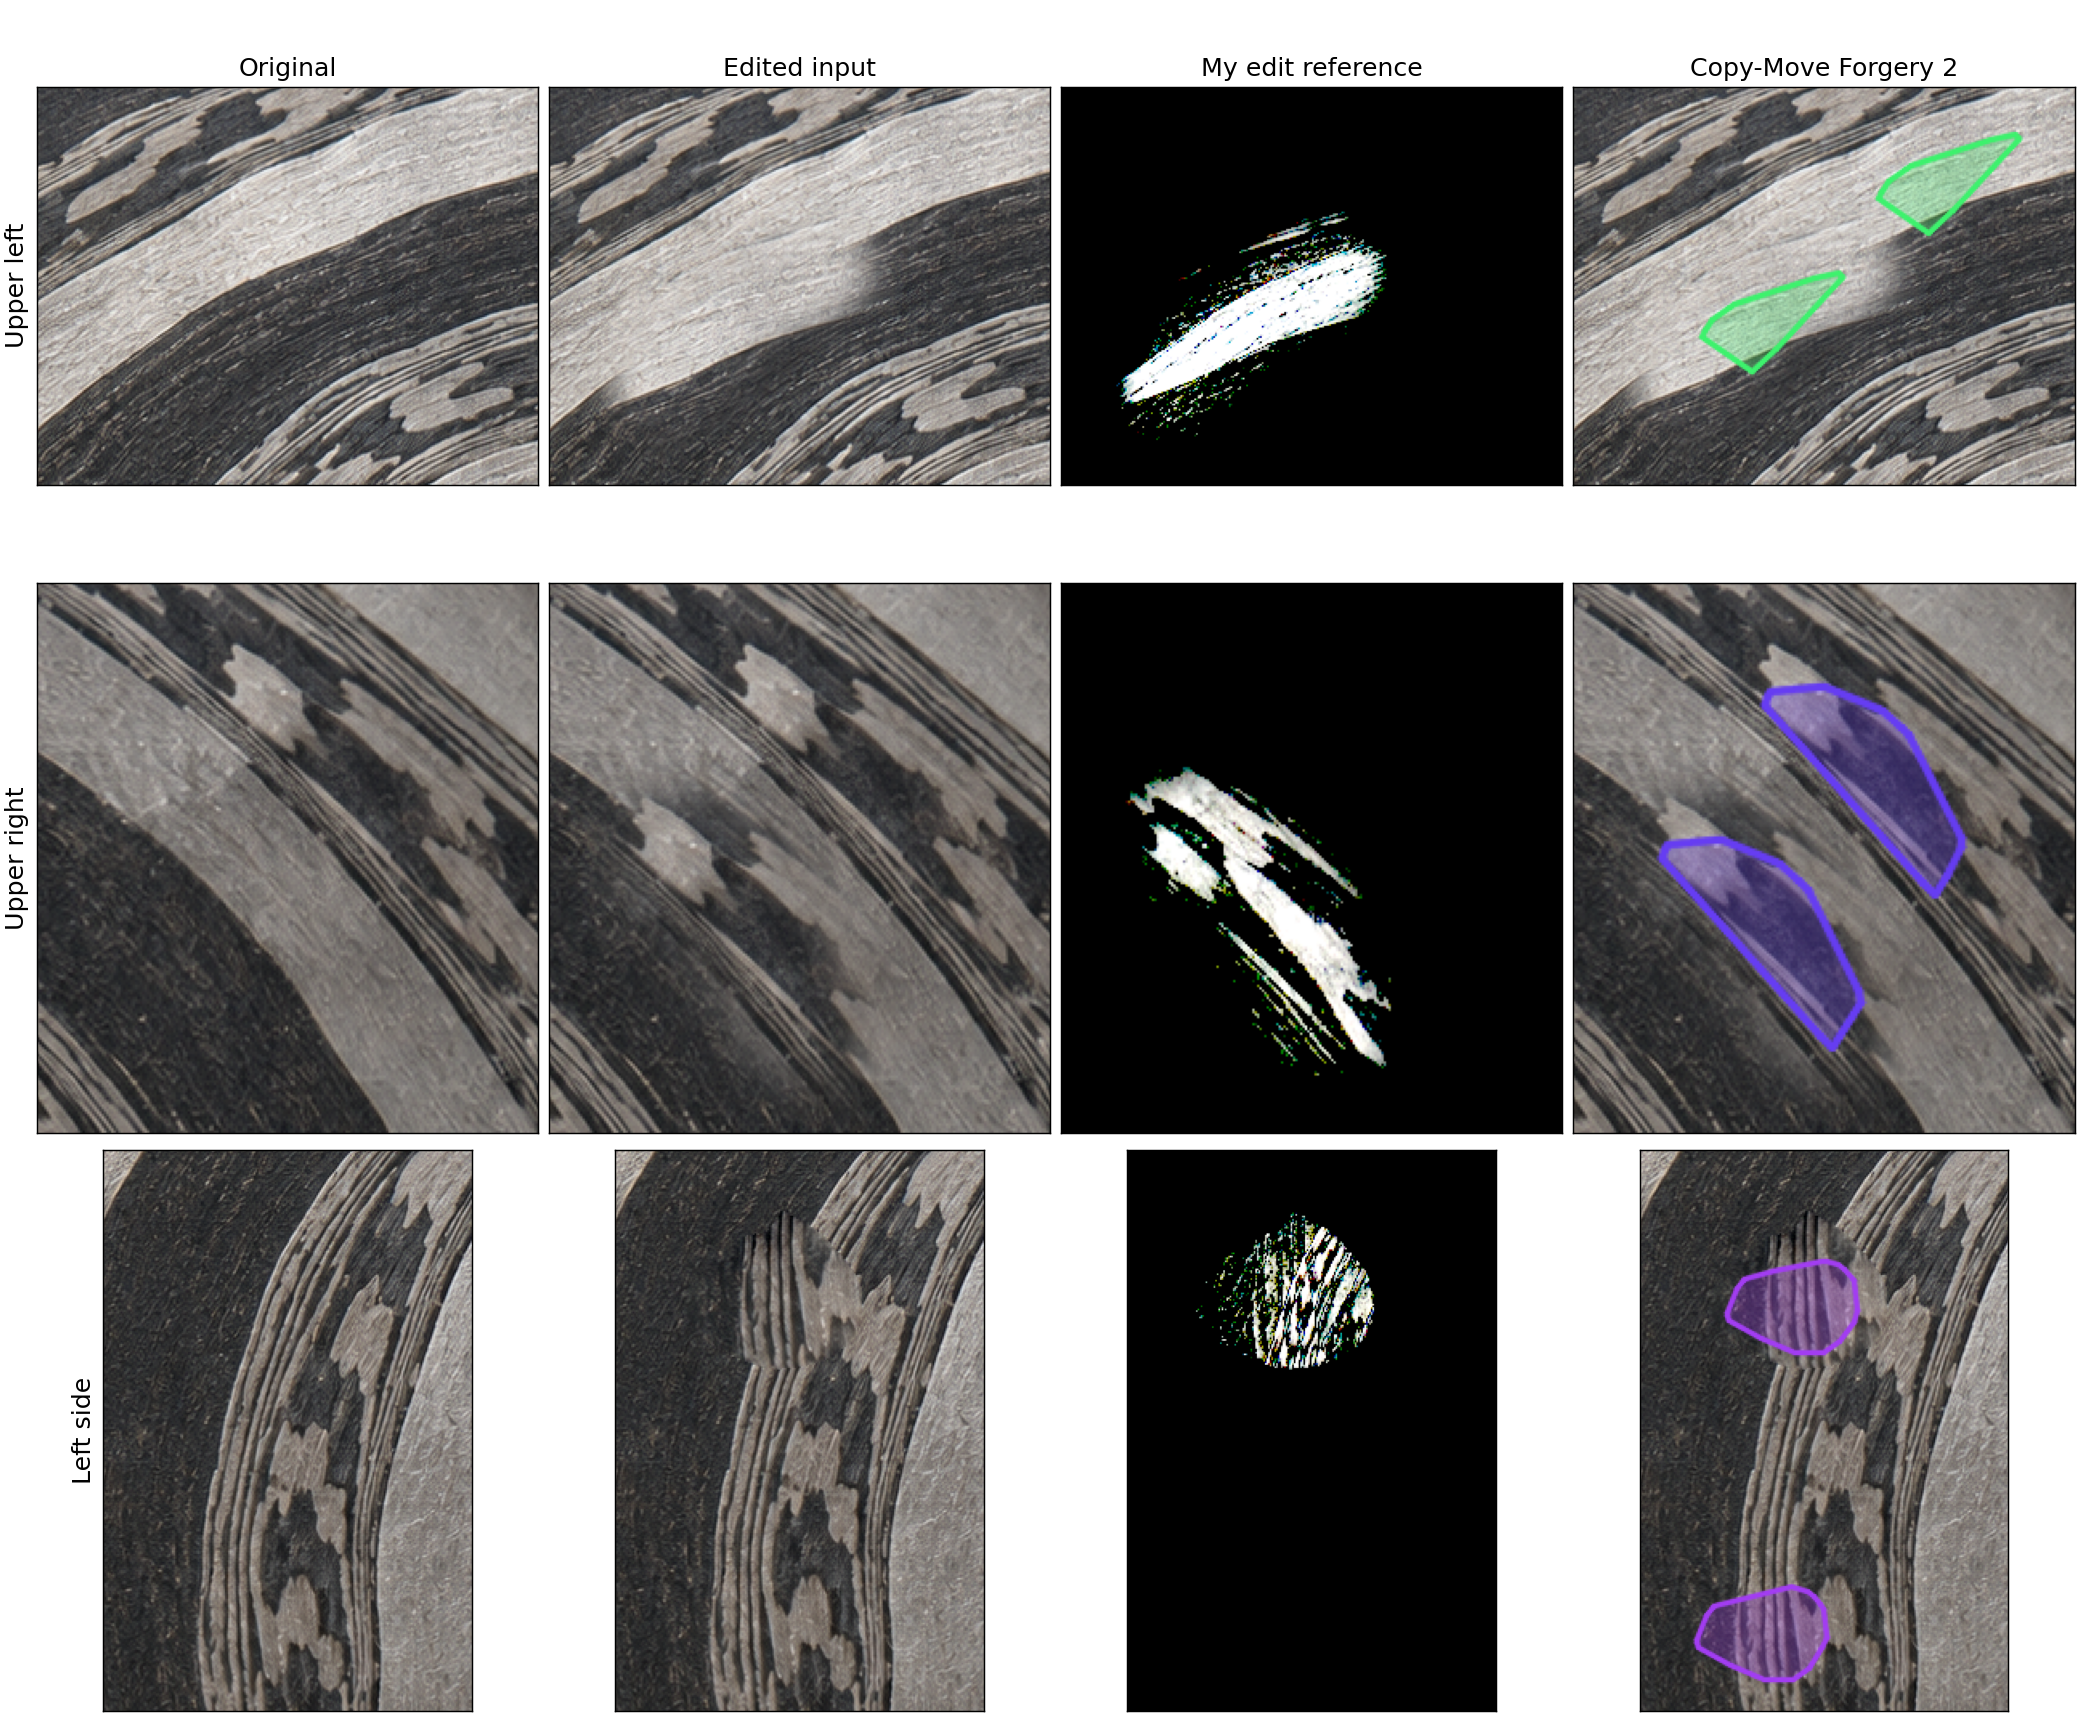
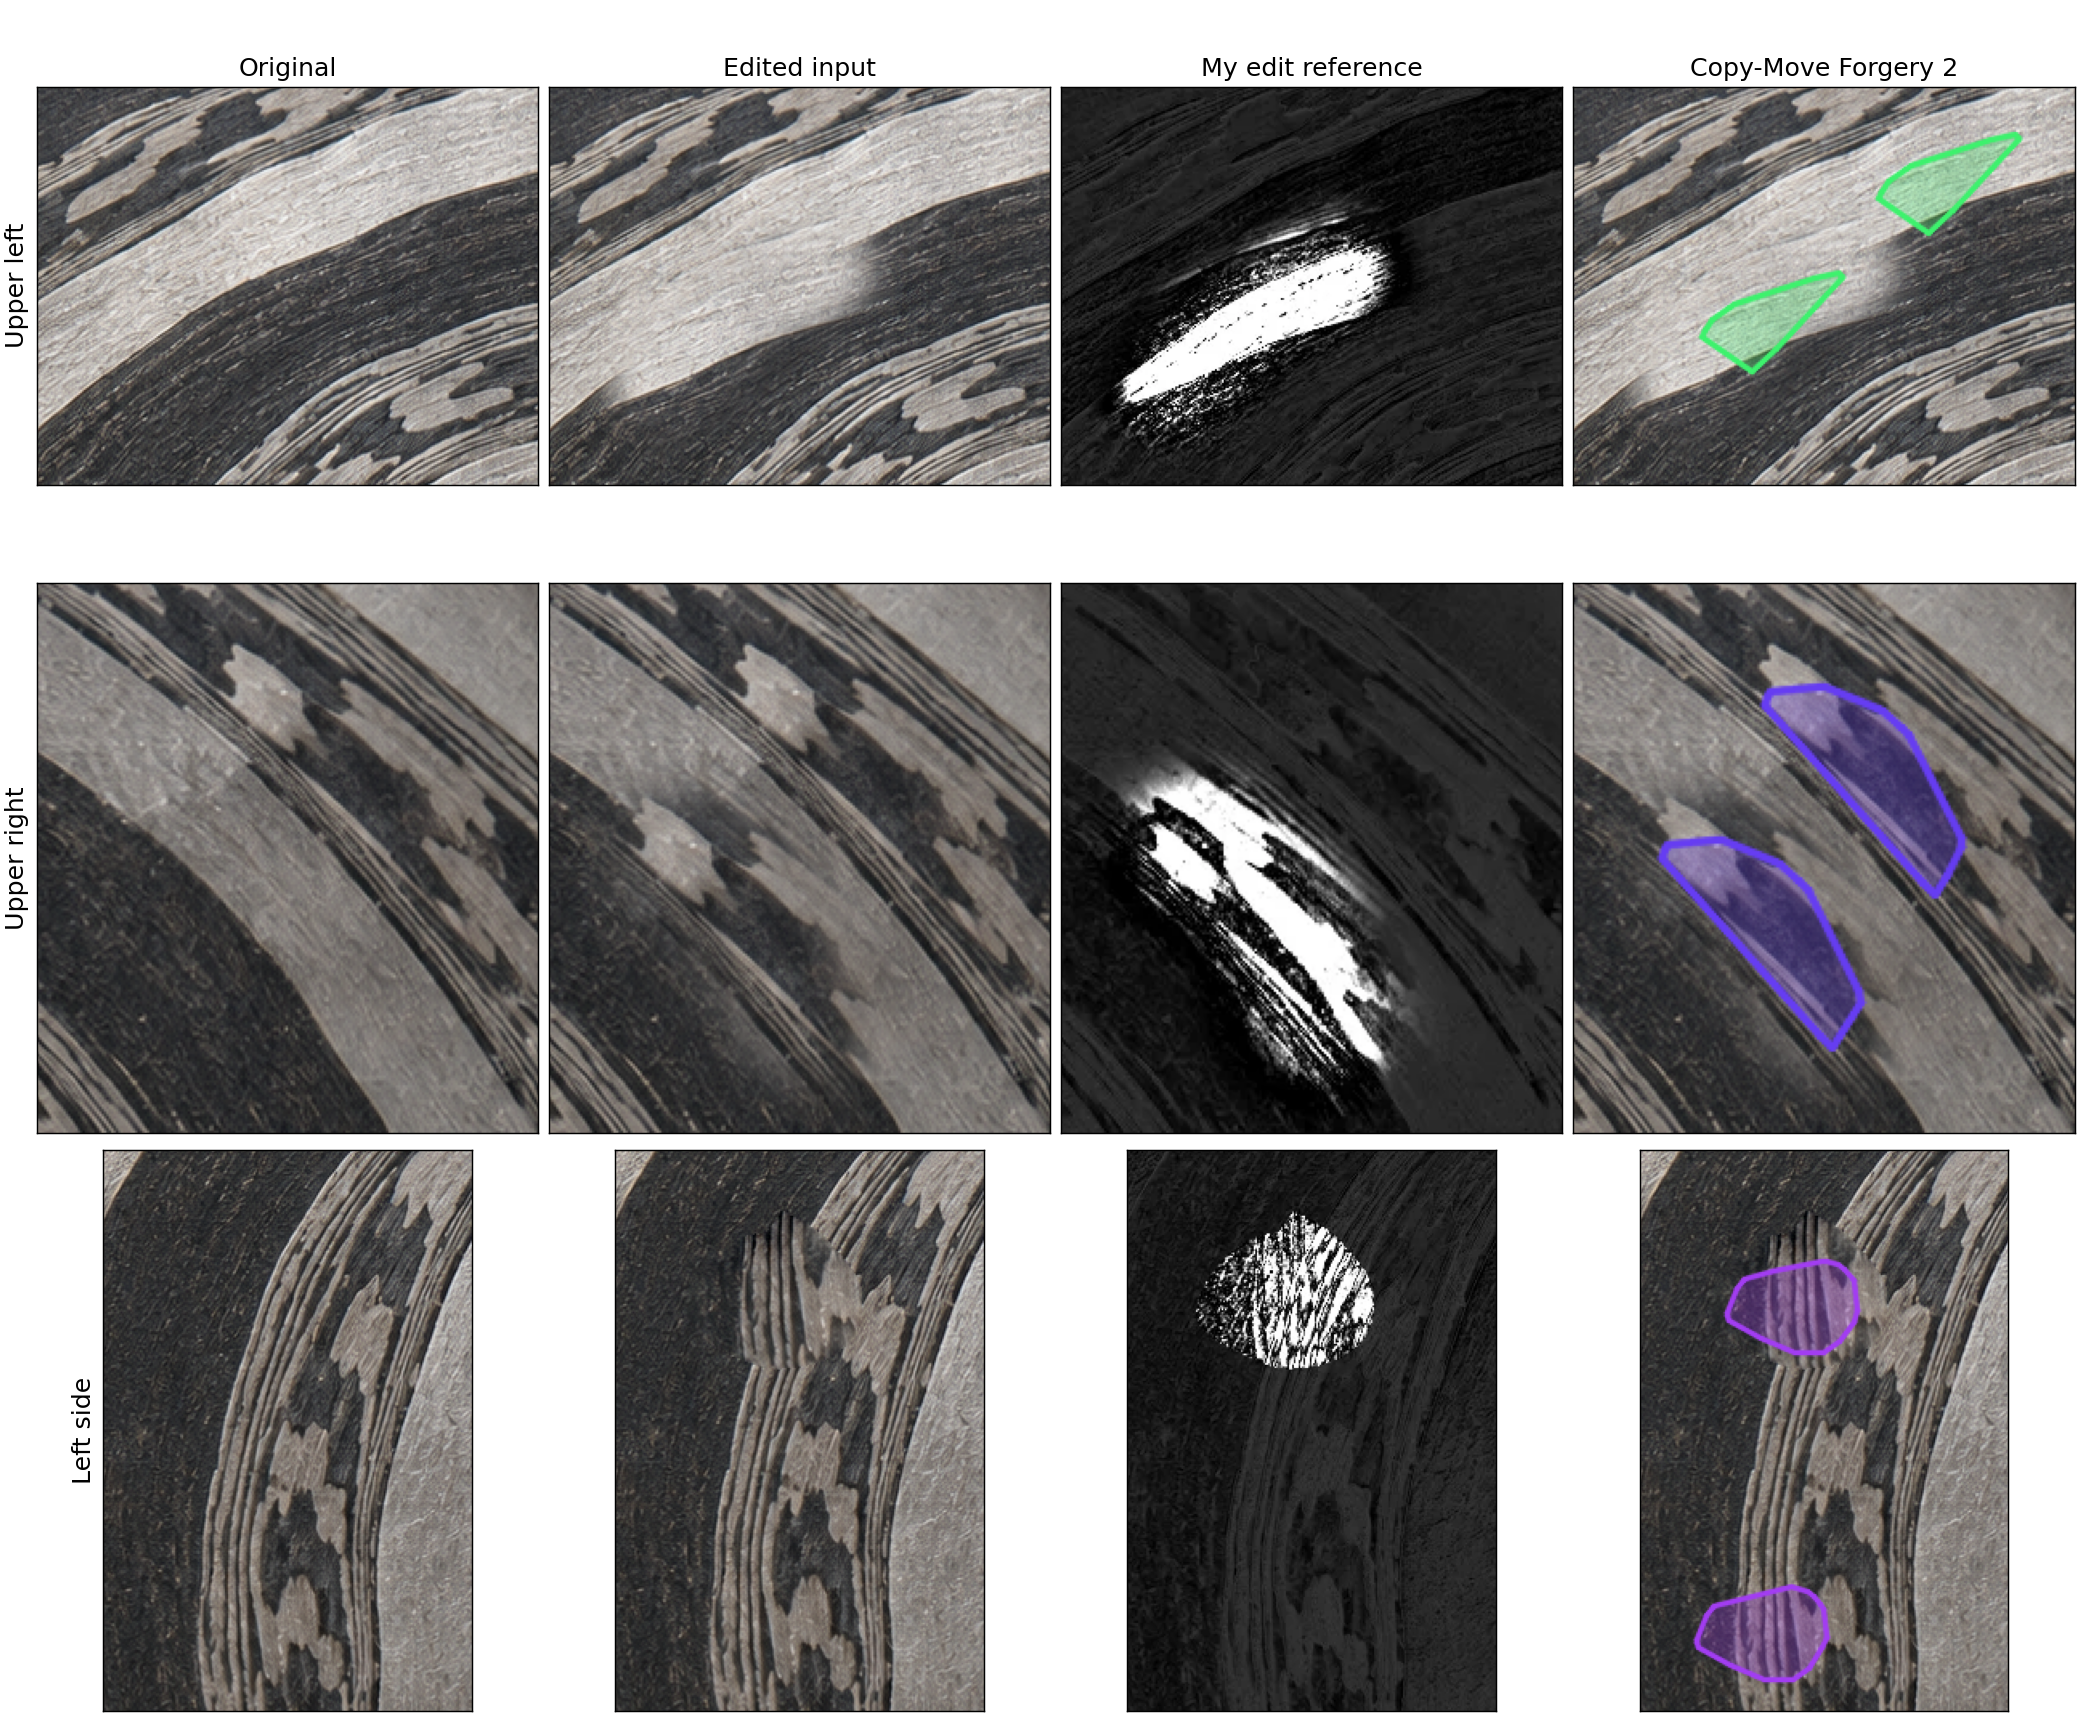
Replace spiral edit reference and refresh aligned comparisons

Changed region(s): [[0.5, 0.3397, 0.75, 1.0], [0.5, 0.0309, 0.75, 0.3089]]

diff --git a/examples/spiral/README.md b/examples/spiral/README.md
@@ -1,8 +1,8 @@
 # Spiral — original, edited input and my edit reference
 
-I supplied the original spiral, my edited TIFF and a second TIFF showing the
+I supplied the original spiral, my edited TIFF and a WebP reference showing the
 areas I changed. The three images share the same 1254 × 1254 pixel coordinates.
-`spiral-reference.png` preserves the decoded colour pixels of my reference TIFF
+`spiral-reference.png` preserves the decoded colour pixels of my reference WebP
 without additional compression loss. It is not a SHERLOQ result and was never
 supplied to a detector.
 
